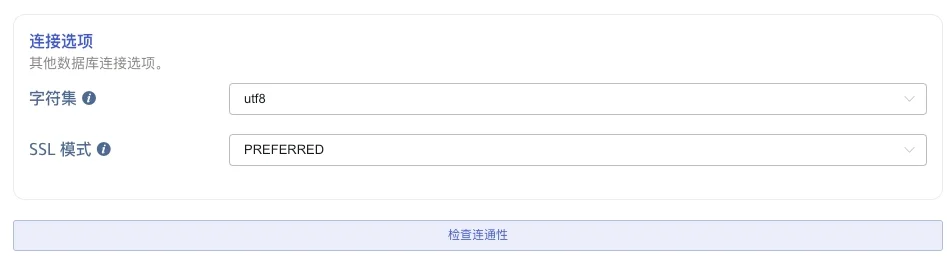
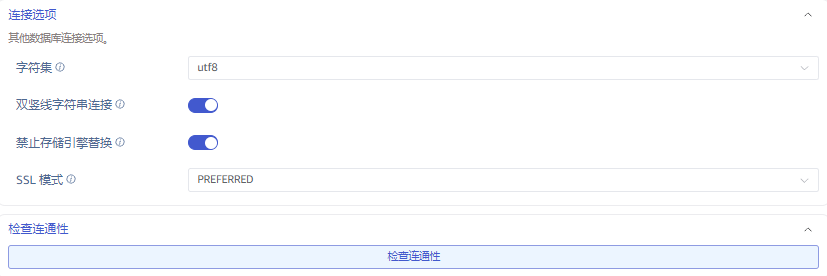
feat(mysql): expose SQL mode options for Doris (rd-public/tsdb!2496)

diff --git a/docs/en/08-data-ingest-and-delivery/01-no-code-ingestion/13-mysql.md b/docs/en/08-data-ingest-and-delivery/01-no-code-ingestion/13-mysql.md
@@ -37,9 +37,15 @@ Fill in the *`connection information for the source MySQL database`* in the **Co
 **Character Set** Set the character set for the connection. The default character set is utf8mb4. MySQL 5.5.3 supports this feature. If connecting to an older version, it is recommended to change to utf8.
 Options include utf8, utf8mb4, utf16, utf32, gbk, big5, latin1, ascii.
 
+**Pipes as Concatenation** (`pipes_as_concat`) controls whether `PIPES_AS_CONCAT` is added to the SQL mode for this connection. When enabled, `||` concatenates strings. When disabled, this mode is not added, but any mode already present in the server session remains; the actual meaning of `||` depends on the final session SQL mode. This option is enabled by default to preserve the behavior of existing MySQL ingestion tasks. Changing it can change the results of existing SQL queries.
+
+**No Engine Substitution** (`no_engine_substitution`) controls whether `NO_ENGINE_SUBSTITUTION` is added to the SQL mode for this connection, preventing MySQL from substituting a storage engine when the requested engine is unavailable. Disabling this option does not remove the mode if it is already present in the server session. This option is enabled by default.
+
+For example, when synchronizing data from Apache Doris through its MySQL protocol endpoint, turn **both options off** (`false`), then click **Check Connectivity**. Set these options for other MySQL-compatible databases according to their compatibility requirements, and avoid changing them on existing tasks without checking their queries.
+
 **SSL Mode** Set whether to negotiate a secure SSL TCP/IP connection with the server or the priority of negotiation. The default value is PREFERRED. Options include DISABLED, PREFERRED, REQUIRED.
 
-![Configure character set and SSL mode](../../assets/mysql-03.webp)
+![Configure MySQL connection options](../../assets/mysql-03.webp)
 
 Then click the **Check Connectivity** button, where users can click this button to check if the information filled in above can normally fetch data from the source MySQL database.
 
